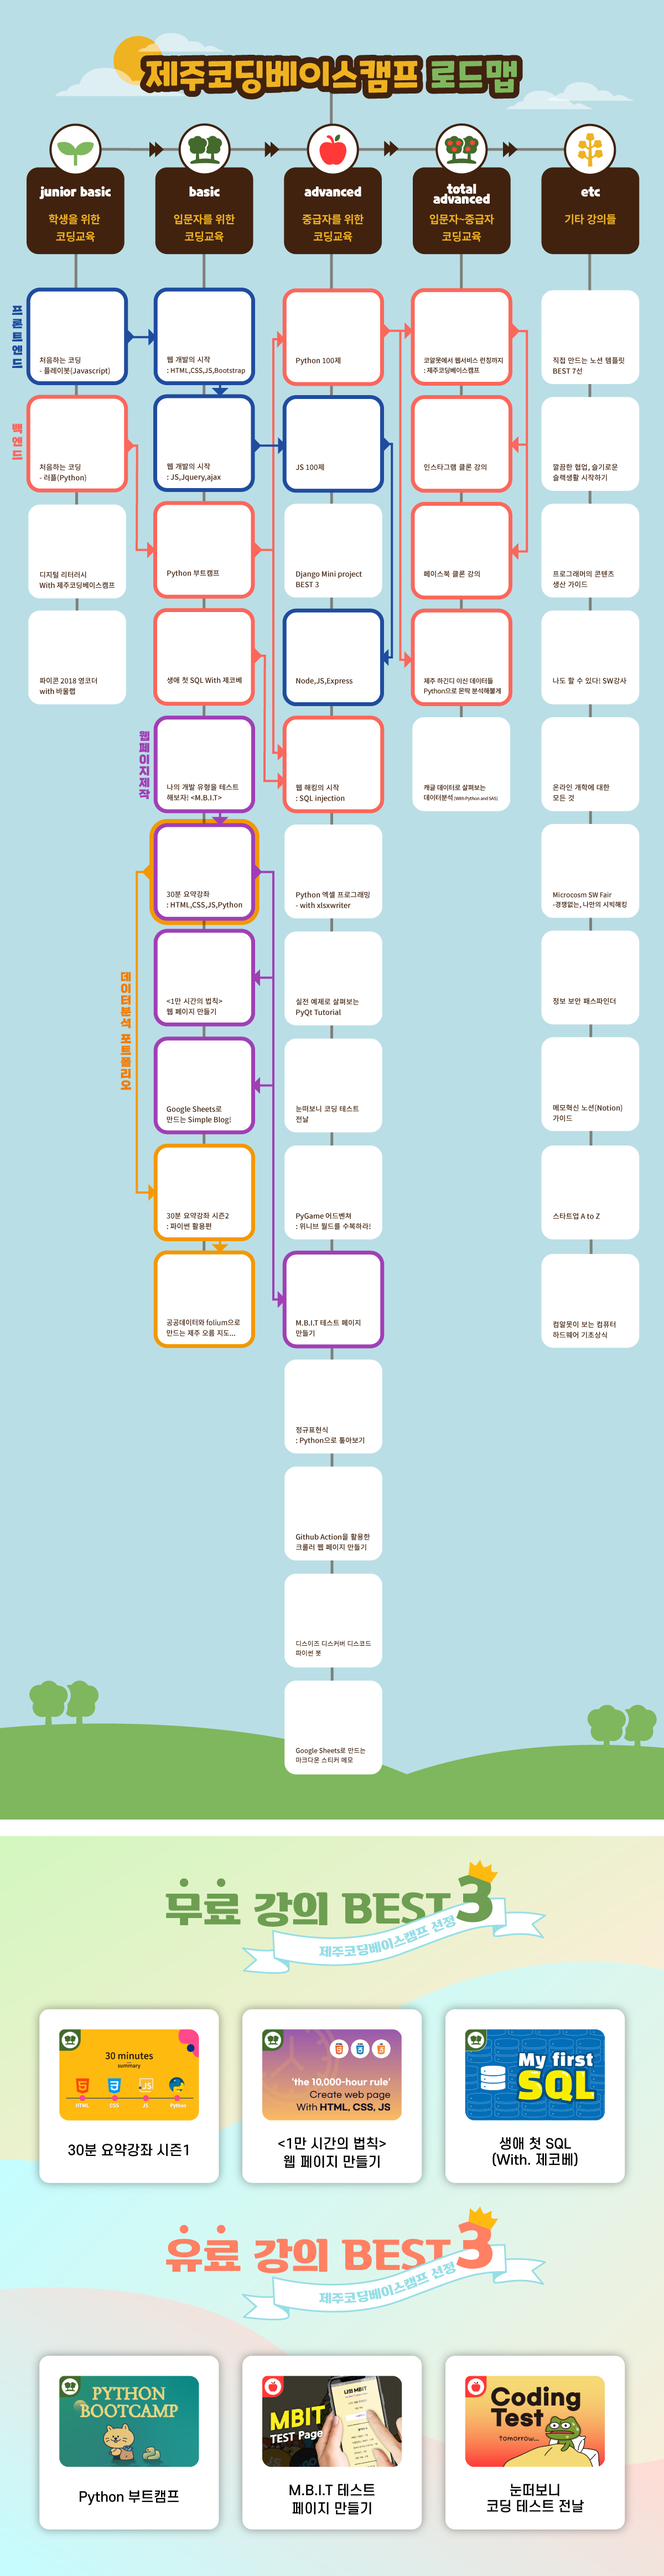
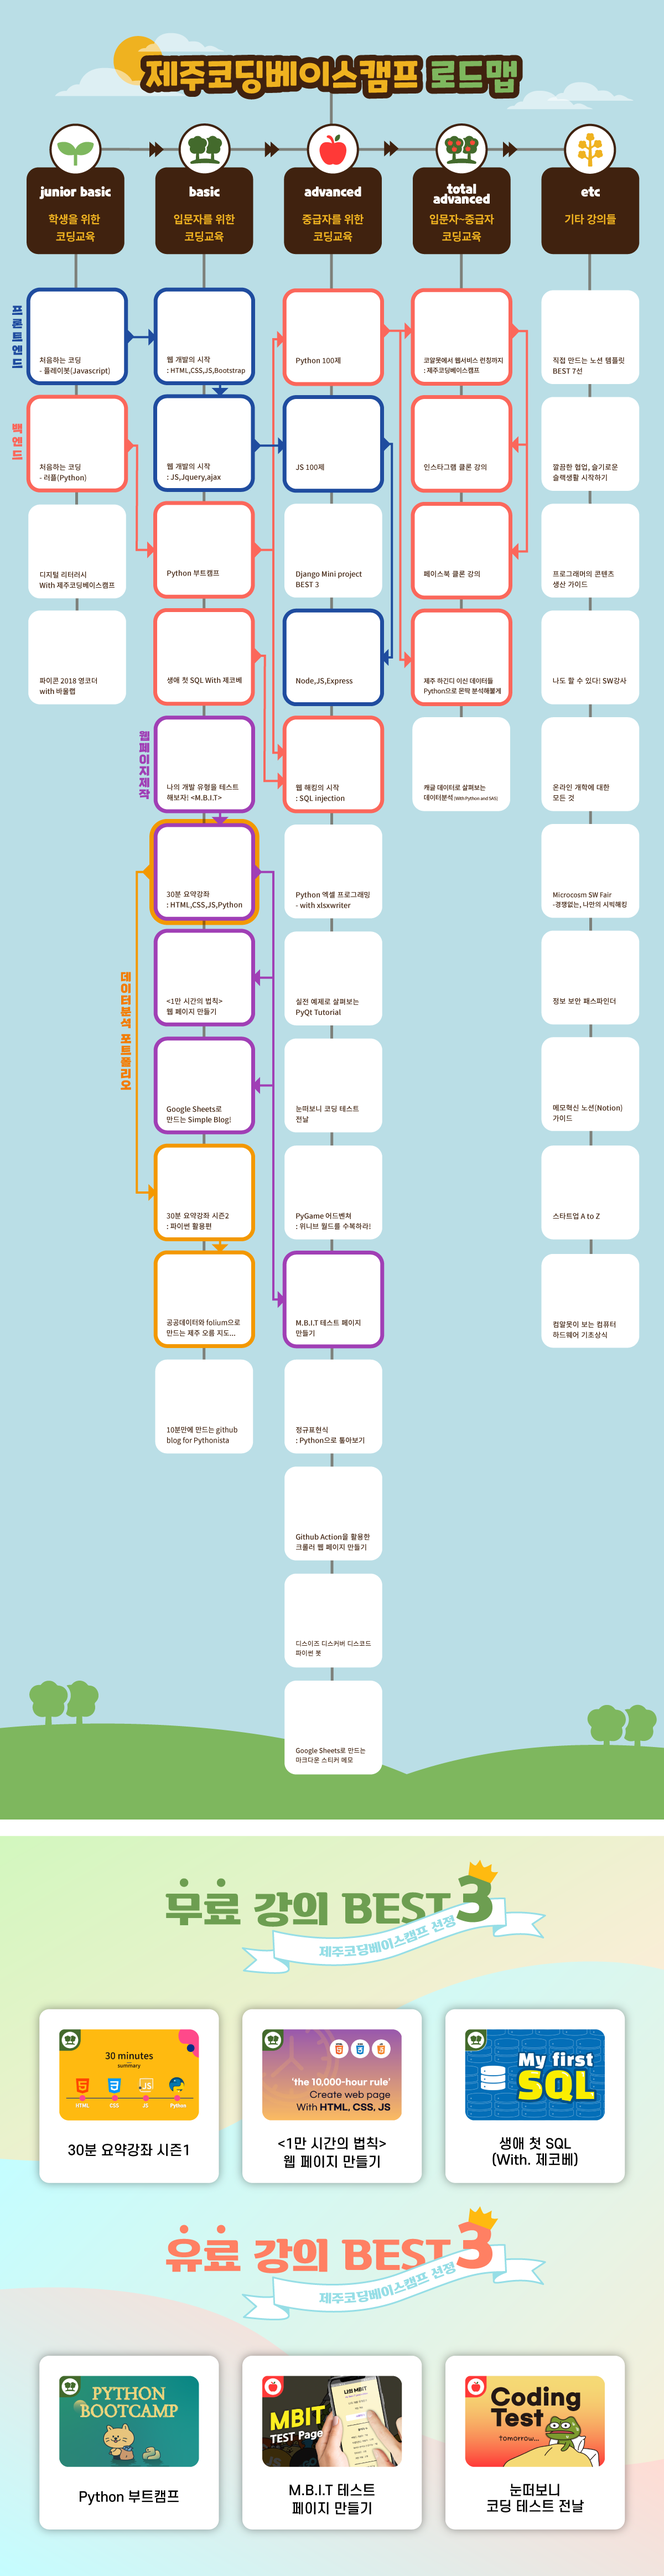
sns 링크, 로드맵 변경

Changed region(s): [[0.2158, 0.5295, 0.4008, 0.5918]]

diff --git a/Tutorial_Homepage/curriculum.html b/Tutorial_Homepage/curriculum.html
@@ -128,7 +128,10 @@
                   <a href="https://www.inflearn.com/course/제주코딩-웹개발-30분요약-시즌2" target="_blank"><img src="images/lecture/lec05.png" alt="30분요약강좌시즌2"/></a>
                 </div>
                 <div class="lec">
-                  <a href="https://www.inflearn.com/instructors/170213/courses" target="_blank"><img src="images/lecture/lec43.png" alt="폴리움으로 만드는 제주 오름 지도 안내 서비스"/></a>
+                  <a href="https://inf.run/BuZD" target="_blank"><img src="images/lecture/lec43.png" alt="폴리움으로 만드는 제주 오름 지도 안내 서비스"/></a>
+                </div>
+                <div class="lec">
+                  <a href="https://inf.run/AdT1" target="_blank"><img src="images/lecture/lec45.png" alt="10분만에 만드는 github blog for Pythonista"/></a>
                 </div>
               </div>
               <!-- advanced -->
@@ -167,7 +170,7 @@
                   <a href="https://inf.run/DboH" target="_blank"><img src="images/lecture/lec37.png" alt="정규표현식"/></a>
                 </div>
                 <div class="lec">
-                  <a href="https://www.inflearn.com/users/170213/courses" target="_blank"><img src="images/lecture/lec39.jpeg" alt="gitaction"/></a>
+                  <a href="https://inf.run/eYFy" target="_blank"><img src="images/lecture/lec39.jpeg" alt="gitaction"/></a>
                 </div>
                 <div class="lec">
                   <a href="https://inf.run/Mpi4" target="_blank"><img src="images/lecture/lec38.png" alt="디스코드"/></a>

diff --git a/Tutorial_Homepage/supporters_page/home.html b/Tutorial_Homepage/supporters_page/home.html
@@ -172,7 +172,7 @@
             <a href="https://paullab.tistory.com/">
               <img src="./assets/t_story.svg" alt="" />
             </a>
-            <a href="https://www.instagram.com/paullab_official/">
+            <a href="https://www.instagram.com/weniv_official/">
               <img src="./assets/instagram.svg" alt="" />
             </a>
             <a href="https://business.facebook.com/Jejucoding/">

diff --git a/Tutorial_Homepage/index.html b/Tutorial_Homepage/index.html
@@ -184,7 +184,7 @@
       <div class="sns">
         <div class="sns__wrap">
           <div class="instagram">
-            <a href="https://www.instagram.com/paullab_official/?hl=ko" target="_blank">
+            <a href="https://www.instagram.com/weniv_official/" target="_blank">
               <img src="images/sns_instagram.png" alt="sns_인스타그램" />
             </a>
           </div>
